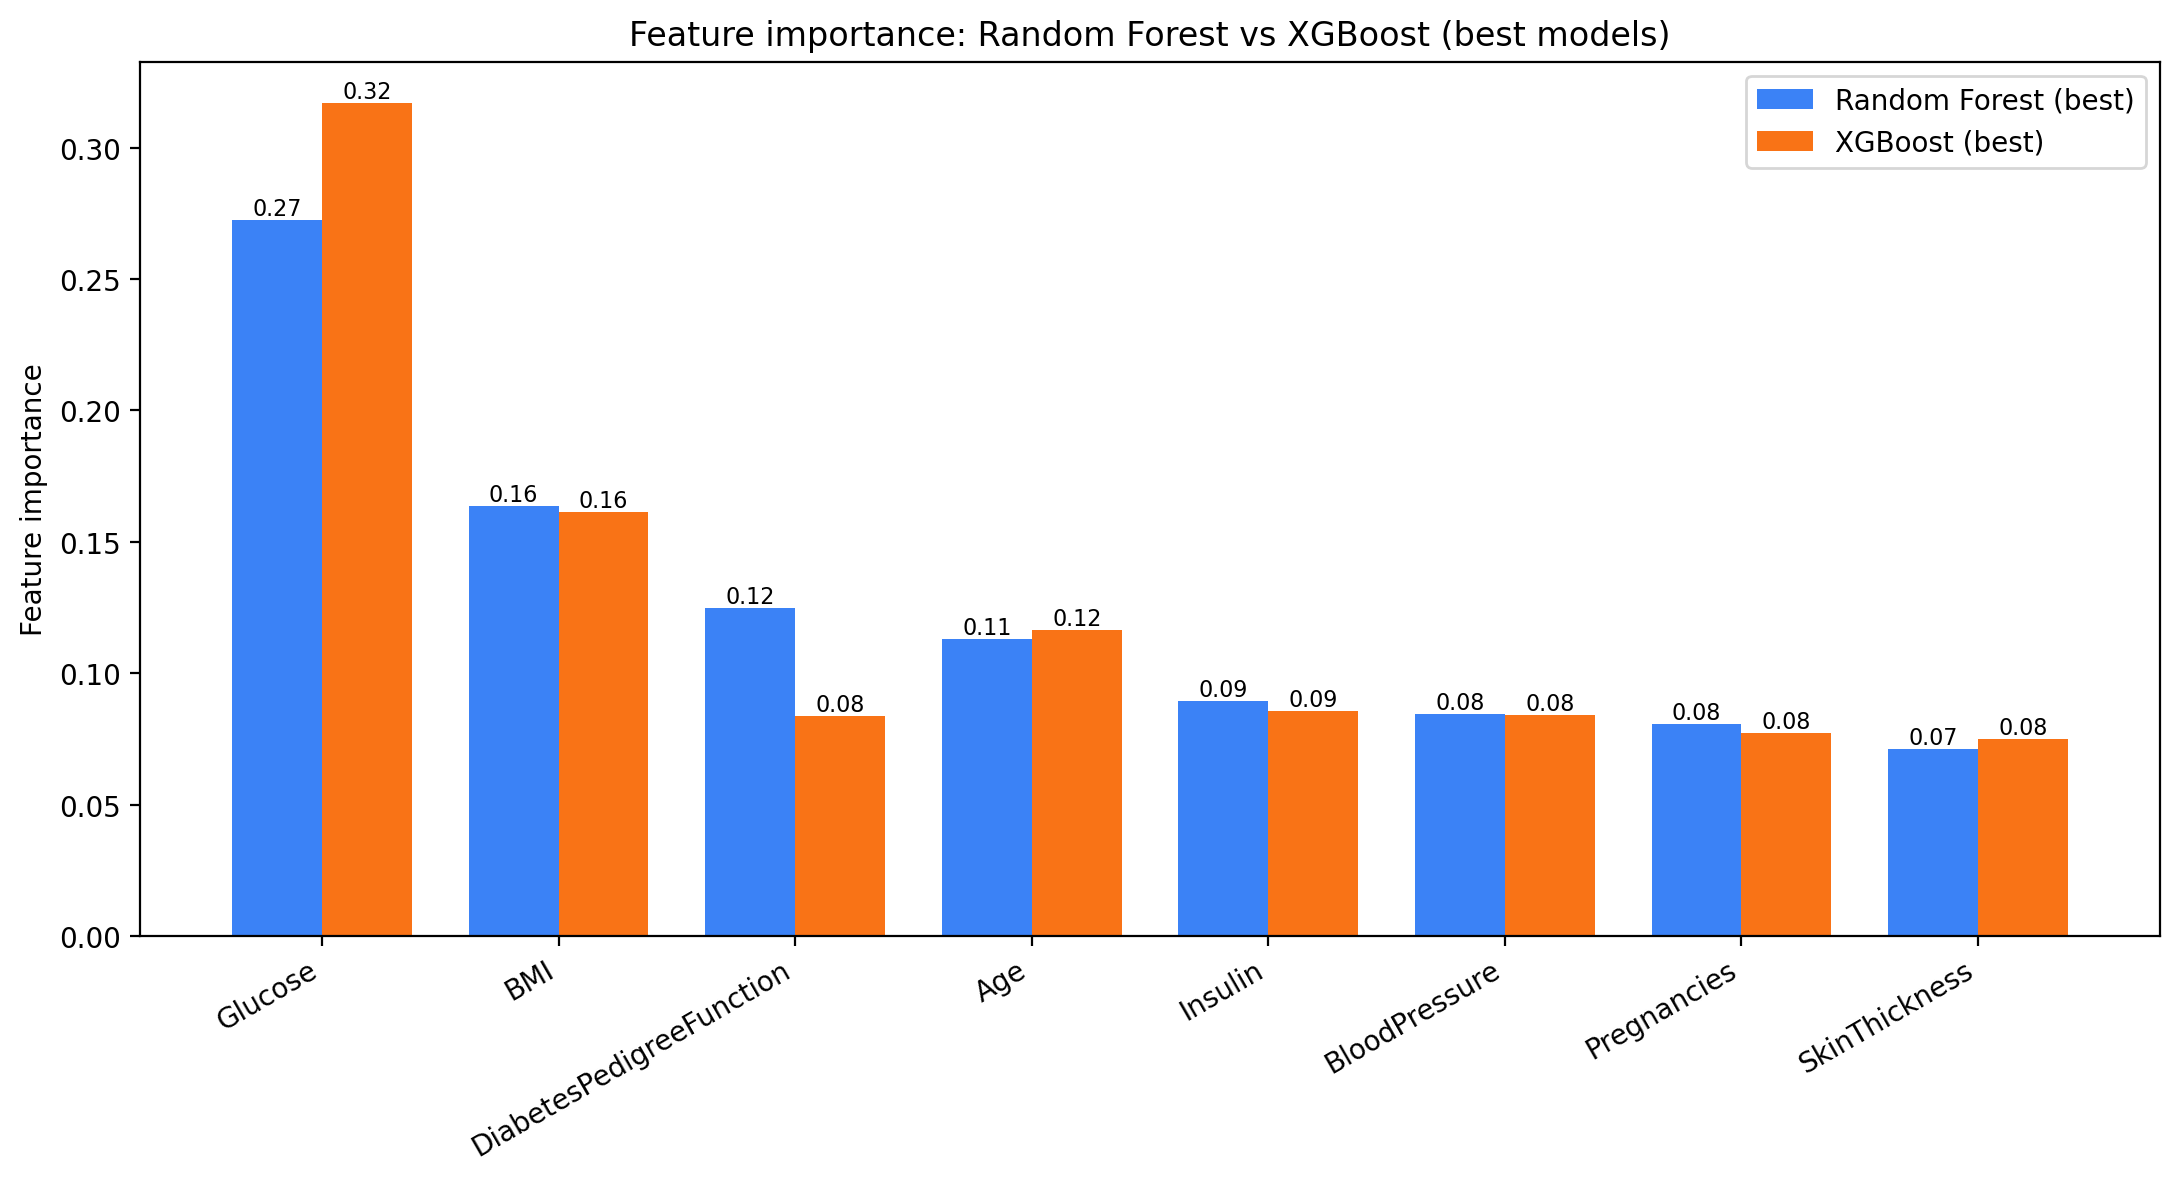
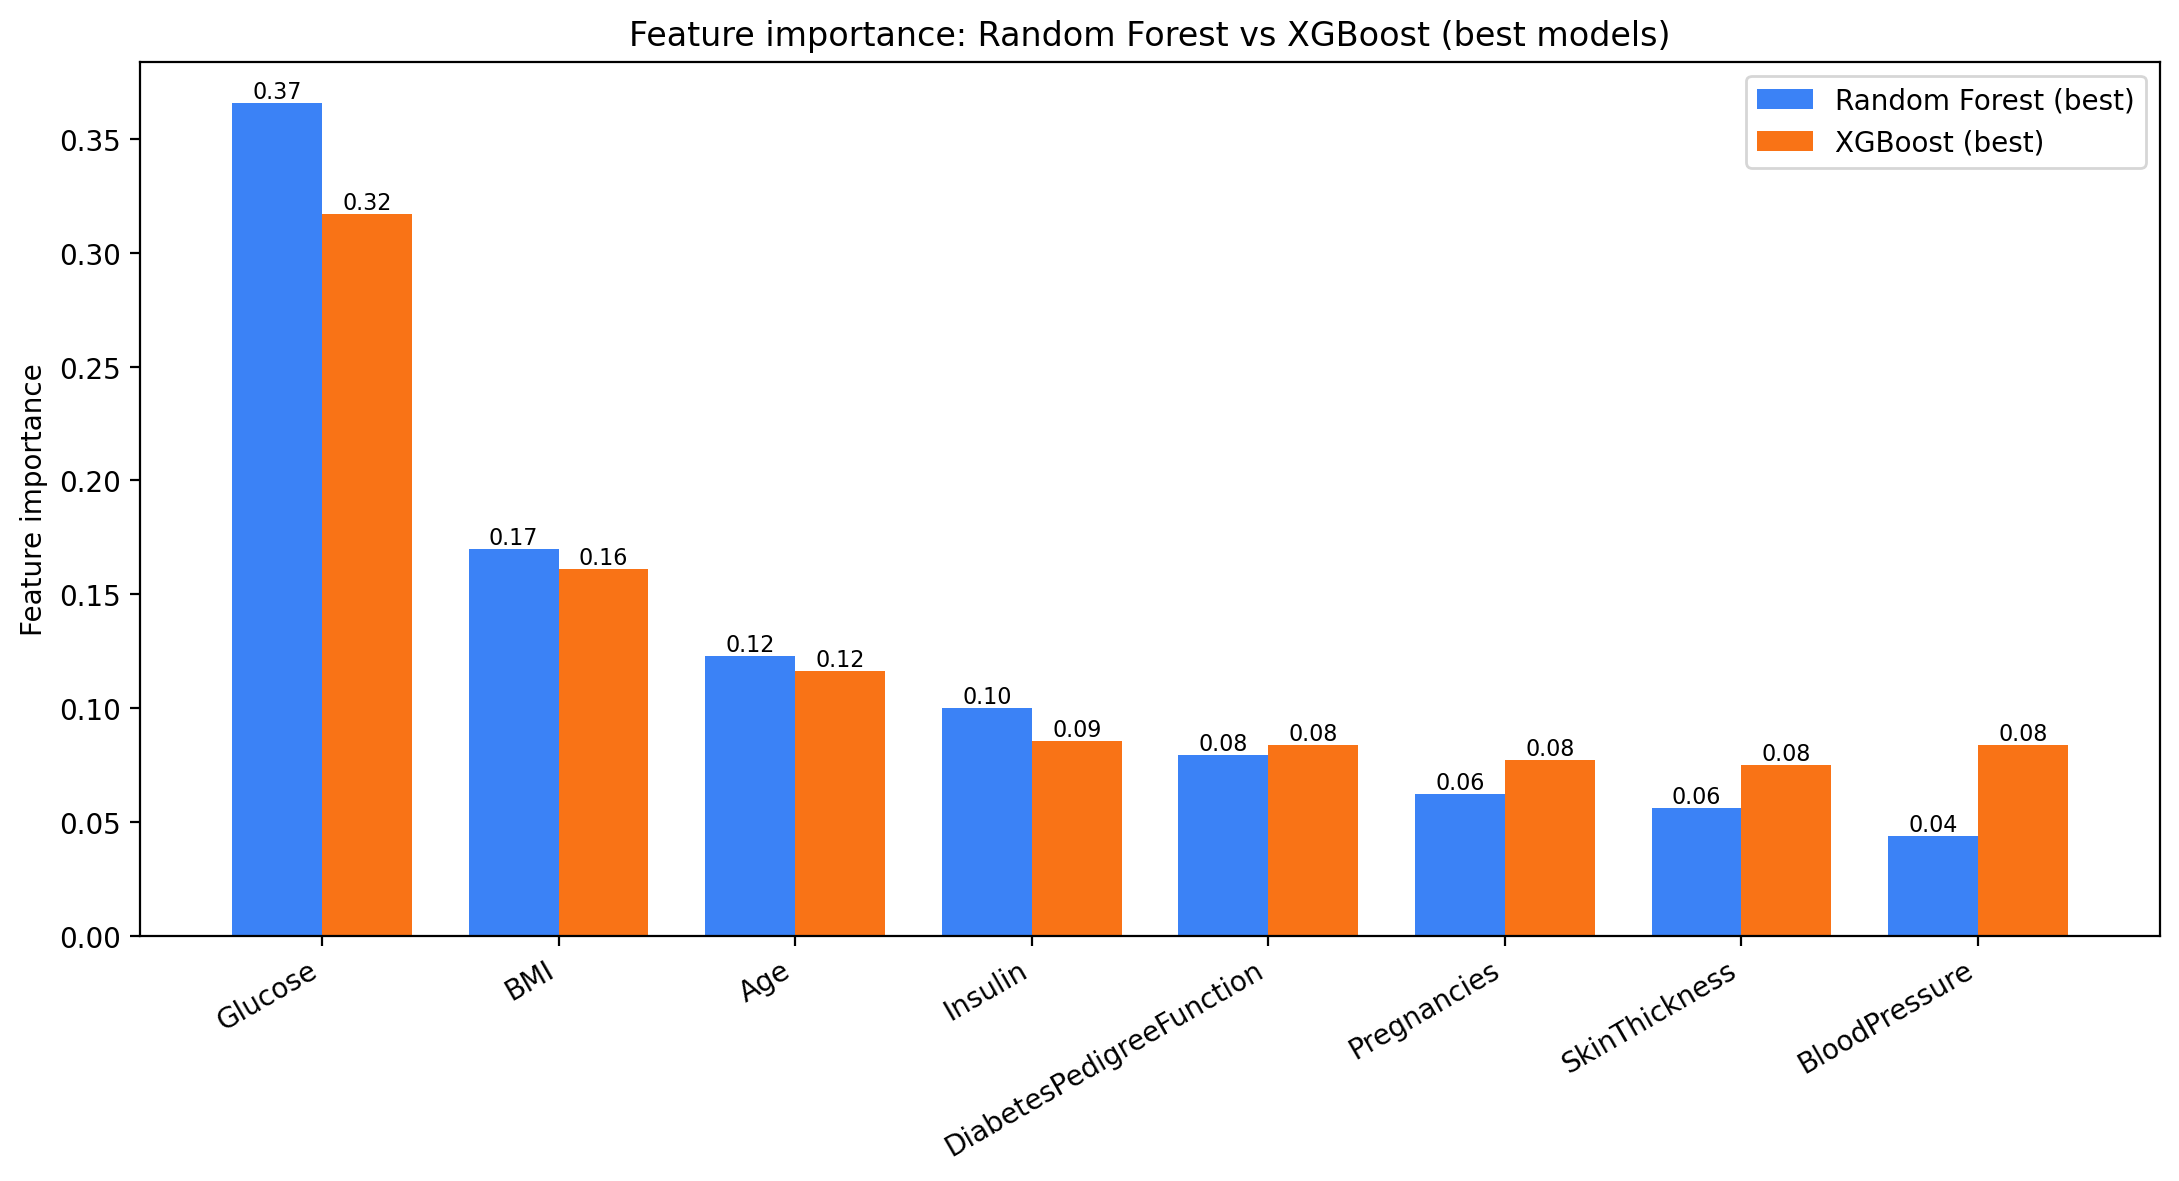
Week 6: 修正 RF 调参，改用训练集内 StratifiedKFold(3) 选最优
原 Step 4 直接以测试集准确率作为排序键挑 RF best，相当于用测试集做了模型选择，
报告出的 test_acc=0.7662 是被偷看过的乐观估计。改为在训练集内 CV 选参后，
RF best (n_est=200, max_depth=5, min_samples_split=5, cv_val=0.7818) 的诚实测试
准确率为 0.7403，train/test gap 由 (1.0/0.7662) 收敛到 (0.855/0.7403)，过拟合得
到缓解。XGBoost 原本已用 GridSearchCV（内部 CV），无需改动。

diff --git a/week6/experiment6.py b/week6/experiment6.py
@@ -122,43 +122,46 @@ rf_default_tr_acc, rf_default_te_acc = print_eval(
 
 
 # =============================================================================
-# Step 4: 调参随机森林（n_estimators × max_depth × min_samples_split）
+# Step 4: 随机森林调参（n_estimators × max_depth × min_samples_split）
+#         用训练集 StratifiedKFold(3) 交叉验证选最优，测试集只在最后评估一次
 # =============================================================================
-print("\n" + "=" * 70 + "\nStep 4: tuned RandomForest grid\n" + "=" * 70)
+print("\n" + "=" * 70 + "\nStep 4: tuned RandomForest with train-only CV\n" + "=" * 70)
 
 RF_N_ESTIMATORS = [100, 200, 400]
 RF_MAX_DEPTHS = [3, 5, 8, None]
 RF_MIN_SPLITS = [2, 5, 10]
+rf_cv = StratifiedKFold(n_splits=3, shuffle=True, random_state=RANDOM_STATE)
 
 rf_rows = []
-best_rf_acc = -1.0
-best_rf = None
+best_rf_cv_acc = -1.0
 best_rf_params = None
 
 for n_est, depth, msp in product(RF_N_ESTIMATORS, RF_MAX_DEPTHS, RF_MIN_SPLITS):
-    clf = RandomForestClassifier(
-        n_estimators=n_est, max_depth=depth, min_samples_split=msp,
-        random_state=RANDOM_STATE, n_jobs=-1,
-    )
-    clf.fit(X_train, y_train)
-    tr_acc = accuracy_score(y_train, clf.predict(X_train))
-    te_acc = accuracy_score(y_test, clf.predict(X_test))
+    tr_scores, val_scores = [], []
+    for tr_idx, val_idx in rf_cv.split(X_train, y_train):
+        clf = RandomForestClassifier(
+            n_estimators=n_est, max_depth=depth, min_samples_split=msp,
+            random_state=RANDOM_STATE, n_jobs=-1,
+        )
+        clf.fit(X_train[tr_idx], y_train[tr_idx])
+        tr_scores.append(accuracy_score(y_train[tr_idx], clf.predict(X_train[tr_idx])))
+        val_scores.append(accuracy_score(y_train[val_idx], clf.predict(X_train[val_idx])))
+    mean_tr, mean_val = float(np.mean(tr_scores)), float(np.mean(val_scores))
     rf_rows.append({
         "n_estimators": n_est,
         "max_depth": "None" if depth is None else depth,
         "min_samples_split": msp,
-        "train_acc": round(tr_acc, 4),
-        "test_acc": round(te_acc, 4),
+        "cv_train_acc": round(mean_tr, 4),
+        "cv_val_acc": round(mean_val, 4),
     })
-    if te_acc > best_rf_acc:
-        best_rf_acc = te_acc
-        best_rf = clf
+    if mean_val > best_rf_cv_acc:
+        best_rf_cv_acc = mean_val
         best_rf_params = (n_est, depth, msp)
 
 rf_table = pd.DataFrame(rf_rows).sort_values(
-    by=["test_acc", "train_acc"], ascending=[False, False]
+    by=["cv_val_acc", "cv_train_acc"], ascending=[False, False]
 ).reset_index(drop=True)
-print("\n[rf_grid] train/test accuracy across grid (top 10 by test_acc):")
+print("\n[rf_cv_grid] mean CV train/val accuracy across grid (top 10 by cv_val_acc):")
 print(rf_table.head(10).to_string(index=False))
 rf_table.to_csv(OUT_DIR / "step4_rf_grid.csv", index=False)
 
@@ -166,11 +169,21 @@ print(
     f"\n[rf_best] n_estimators={best_rf_params[0]}, "
     f"max_depth={best_rf_params[1]}, "
     f"min_samples_split={best_rf_params[2]}, "
-    f"test_acc={best_rf_acc:.4f}"
+    f"cv_val_acc={best_rf_cv_acc:.4f}"
 )
+
+best_rf = RandomForestClassifier(
+    n_estimators=best_rf_params[0],
+    max_depth=best_rf_params[1],
+    min_samples_split=best_rf_params[2],
+    random_state=RANDOM_STATE, n_jobs=-1,
+)
+best_rf.fit(X_train, y_train)
 print("\n[rf_best] 模型参数:")
 print(best_rf.get_params())
-print_eval("rf_best", best_rf, X_train, y_train, X_test, y_test)
+rf_best_tr_acc, rf_best_te_acc = print_eval(
+    "rf_best", best_rf, X_train, y_train, X_test, y_test
+)
 
 
 # =============================================================================
@@ -307,8 +320,7 @@ print("saved: feature_importance.png")
 print("\n" + "=" * 70 + "\nSummary\n" + "=" * 70)
 summary = pd.DataFrame([
     {"model": "RF default",  "train_acc": rf_default_tr_acc,  "test_acc": rf_default_te_acc},
-    {"model": "RF best",     "train_acc": accuracy_score(y_train, best_rf.predict(X_train)),
-                              "test_acc": best_rf_acc},
+    {"model": "RF best",     "train_acc": rf_best_tr_acc,     "test_acc": rf_best_te_acc},
     {"model": "XGB default", "train_acc": xgb_default_tr_acc, "test_acc": xgb_default_te_acc},
     {"model": "XGB best",    "train_acc": xgb_best_tr_acc,    "test_acc": xgb_best_te_acc},
 ])

diff --git a/week6/README.md b/week6/README.md
@@ -13,33 +13,35 @@ Pima Indians Diabetes Dataset（`diabetes.csv`，768 条样本 × 8 个特征 + 
 1. 加载数据，查看形状 / 前 5 行 / 数据类型 / NaN 数 / 各列 `0` 的数量 / 类别分布
 2. 把 5 列不合生理常识的 `0` 替换为 NaN，再 `train_test_split` 8:2 (stratify=y)，**仅用训练集的中位数**做 `SimpleImputer` 填充
 3. 默认参数 `RandomForestClassifier` 训练 + 评估（模型参数、训练 / 测试集混淆矩阵、分类报告）
-4. 网格遍历 `n_estimators ∈ {100, 200, 400}` × `max_depth ∈ {3, 5, 8, None}` × `min_samples_split ∈ {2, 5, 10}`（共 36 组），选 test_acc 最高的为最优模型
+4. RF 网格调参 `n_estimators ∈ {100, 200, 400}` × `max_depth ∈ {3, 5, 8, None}` × `min_samples_split ∈ {2, 5, 10}`（共 36 组）— **在训练集内用 `StratifiedKFold(3)` 交叉验证选最优**，测试集只在最后评估一次，避免测试集泄漏
 5. 原数据 `0` 设为 NaN（不做填充，XGBoost 内部用 `missing=nan` 处理），切分后用默认 `XGBClassifier` 训练 + 评估
 6. 在步骤 5 基础上做 9 维参数网格搜索（`learning_rate`、`n_estimators`、`max_depth`、`min_child_weight`、`subsample`、`colsample_bytree`、`gamma`、`reg_alpha`、`reg_lambda`，每维 2 个取值共 512 组），3 折 `StratifiedKFold`、`accuracy` 评分，输出 CV 最优参数 + 测试集表现
 7. 步骤 4 与步骤 6 的最优模型特征重要性对比，柱状图可视化
 
 > 数据预处理顺序：先 `train_test_split`，再仅用训练集统计量做填充，避免数据泄漏。
+> 调参原则：模型选择只能用训练集（含其内部的 CV 折），测试集只作为最终评估一次。
 
 ## 主要结果
 
 | 模型 | 关键参数 | Train Acc | Test Acc |
 |---|---|---|---|
 | RF default | n_estimators=100, max_depth=None, min_samples_split=2 | 1.0000 | 0.7662 |
-| RF best    | n_estimators=100, max_depth=None, min_samples_split=2 | 1.0000 | 0.7662 |
+| RF best (CV) | n_estimators=200, max_depth=5, min_samples_split=5 | 0.8550 | 0.7403 |
 | XGB default| 库默认 (objective=binary:logistic, missing=NaN) | 1.0000 | 0.7338 |
 | XGB best   | lr=0.05, n_est=100, max_depth=3, min_child_weight=1, subsample=0.8, colsample_bytree=1.0, gamma=0, reg_alpha=0.1, reg_lambda=1.0 | 0.8550 | 0.7532 |
 
-XGBoost 网格搜索 best CV acc = **0.7867**。
+- RF 网格 CV 最佳 `cv_val_acc = 0.7818`（n_est=200, max_depth=5, min_samples_split=5）
+- XGB 网格 CV 最佳 `cv_acc = 0.7867`
 
-随机森林网格搜索最佳组合与默认参数完全一致（test_acc=0.7662），说明在该数据上 sklearn 的 RF 默认配置已较接近最优；但 `train_acc=1.0` 表明仍存在明显过拟合。
+RF 默认参数 `train_acc=1.0000` 是典型的完全过拟合；网格搜索（基于 CV）选出的 max_depth=5 的较浅森林把 train_acc 拉回到 0.855，测试集上 0.7403 才是诚实的泛化估计——比表面上"好看"的 0.7662 更可信，因为前者没有偷看测试集。
 
 XGBoost 在网格搜索后，训练 / 测试准确率从 (1.0000 / 0.7338) 收敛到 (0.8550 / 0.7532)——**正则化（小学习率 + 浅树 + 子采样 + L1 / L2）显著降低了过拟合**，泛化能力变好。
 
-特征重要性两个模型基本一致：**Glucose > BMI > Age / DiabetesPedigreeFunction > Insulin / BloodPressure > Pregnancies > SkinThickness**。其中 `DiabetesPedigreeFunction` 在 RF 中排第 3、XGB 中排第 6，是两个模型分歧最大的特征。
+特征重要性两个模型基本一致：**Glucose > BMI > Age > Insulin > Pregnancies / DPF > SkinThickness / BloodPressure**。Glucose 在两个模型中都是压倒性的第 1 名（RF 0.37、XGB 0.32），BMI 稳居第 2。差异最大的是 `BloodPressure`：RF 排第 8（最低），XGB 排第 5。
 
 ## 输出文件
 
-- `step4_rf_grid.csv`：步骤 4 RF 网格 36 组的 train / test 准确率
+- `step4_rf_grid.csv`：步骤 4 RF 网格 36 组的 cv_train / cv_val 平均准确率
 - `step6_xgb_grid.csv`：步骤 6 XGB 512 组 GridSearchCV 的全部 cv 结果
 - `step7_feature_importance.csv`：两个最优模型的特征重要性 + 排名
 - `summary.csv`：四个模型 train / test acc 汇总